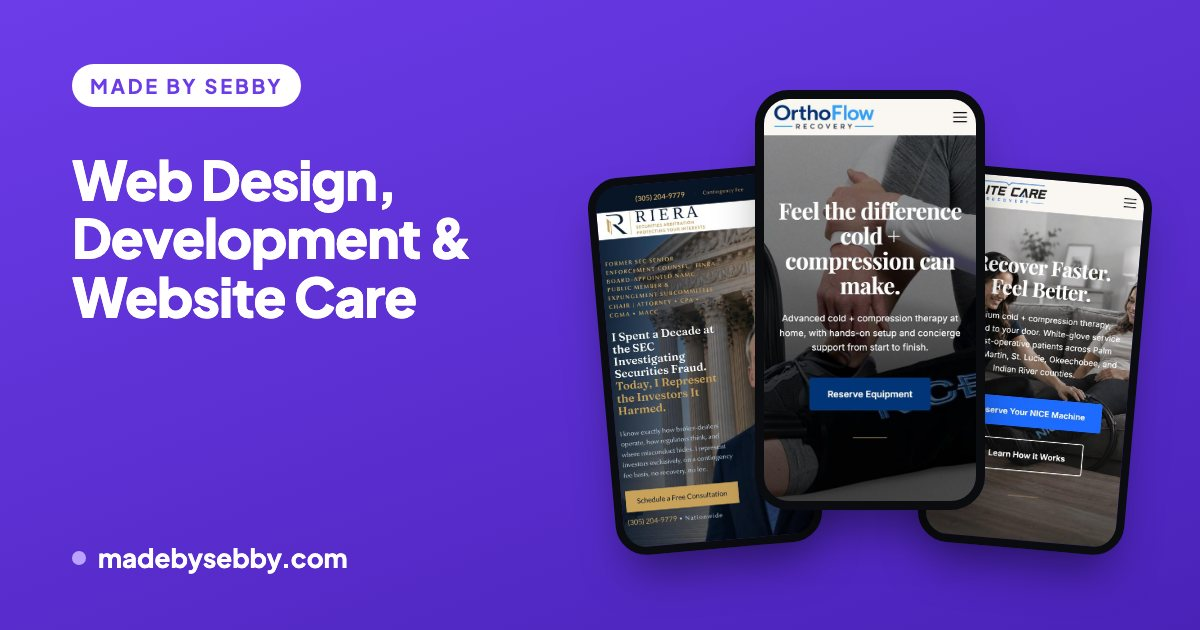
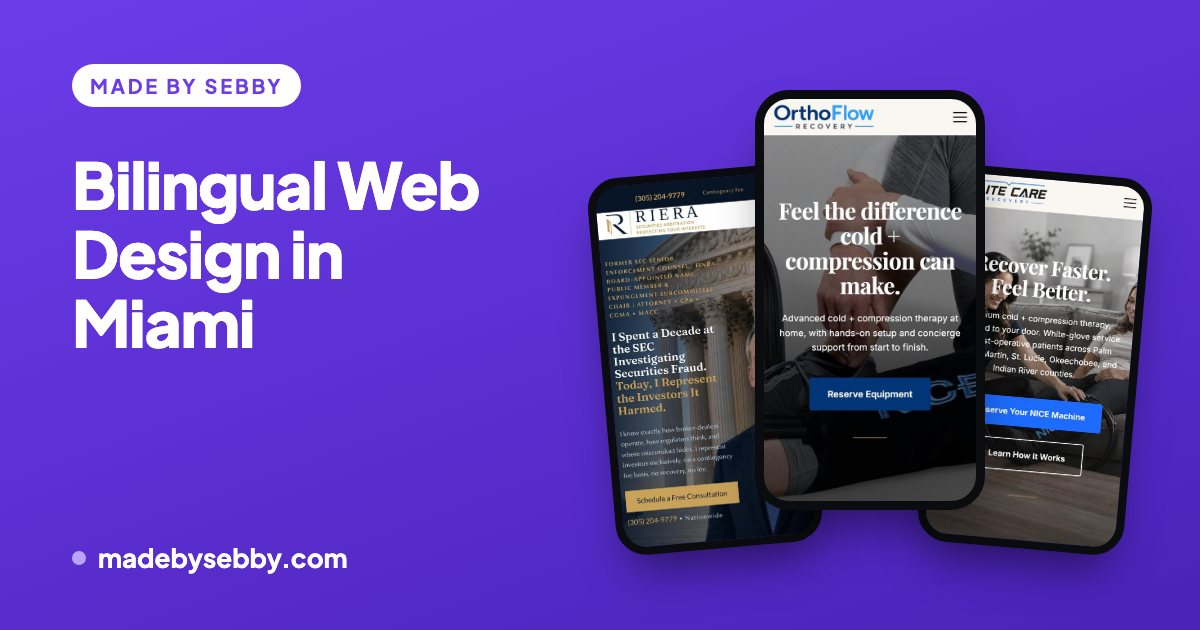
ship: SEO titles and the weekly-review fixes together, with share cards redrawn for the renamed titles
Both approved in HQ (seo-titles-review, evo1103-site-fixes). The footer
carries both new links (Law firms, Quick Fixes) on every page.

Changed region(s): [[0.0617, 0.2413, 0.4008, 0.573]]

diff --git a/es/arreglos-rapidos.html b/es/arreglos-rapidos.html
@@ -822,6 +822,7 @@ footer{border-top:1px solid var(--line);padding:56px 0 0;margin-top:0}
         <li><a href="/es/diseno-web-doral.html">Doral</a></li>
         <li><a href="/es/diseno-web-hialeah.html">Hialeah</a></li>
         <li><a href="/es/diseno-web-fort-lauderdale.html">Fort Lauderdale</a></li>
+        <li><a href="/es/diseno-web-para-abogados.html">Abogados</a></li>
         </ul>
       </div>
         <a class="ft-cta" href="/es/agendar.html">Agenda una llamada gratis</a>

diff --git a/es/blog/tu-pagina-web-solo-en-ingles.html b/es/blog/tu-pagina-web-solo-en-ingles.html
@@ -478,6 +478,7 @@ footer{border-top:1px solid var(--line);padding:56px 0 0;margin-top:0}
         <li><a href="/es/diseno-web-doral.html">Doral</a></li>
         <li><a href="/es/diseno-web-hialeah.html">Hialeah</a></li>
         <li><a href="/es/diseno-web-fort-lauderdale.html">Fort Lauderdale</a></li>
+        <li><a href="/es/diseno-web-para-abogados.html">Abogados</a></li>
         </ul>
       </div>
         <a class="ft-cta" href="/es/agendar.html">Agenda una llamada gratis</a>

diff --git a/blog/english-only-website-south-florida.html b/blog/english-only-website-south-florida.html
@@ -478,6 +478,7 @@ footer{border-top:1px solid var(--line);padding:56px 0 0;margin-top:0}
         <li><a href="/web-design-doral.html">Doral</a></li>
         <li><a href="/web-design-hialeah.html">Hialeah</a></li>
         <li><a href="/web-design-fort-lauderdale.html">Fort Lauderdale</a></li>
+        <li><a href="/web-design-for-law-firms.html">Law firms</a></li>
         </ul>
       </div>
         <a class="ft-cta" href="/book.html">Book a free call</a>

diff --git a/quick-fixes.html b/quick-fixes.html
@@ -822,6 +822,7 @@ footer{border-top:1px solid var(--line);padding:56px 0 0;margin-top:0}
         <li><a href="/web-design-doral.html">Doral</a></li>
         <li><a href="/web-design-hialeah.html">Hialeah</a></li>
         <li><a href="/web-design-fort-lauderdale.html">Fort Lauderdale</a></li>
+        <li><a href="/web-design-for-law-firms.html">Law firms</a></li>
         </ul>
       </div>
         <a class="ft-cta" href="/book.html">Book a free call</a>
